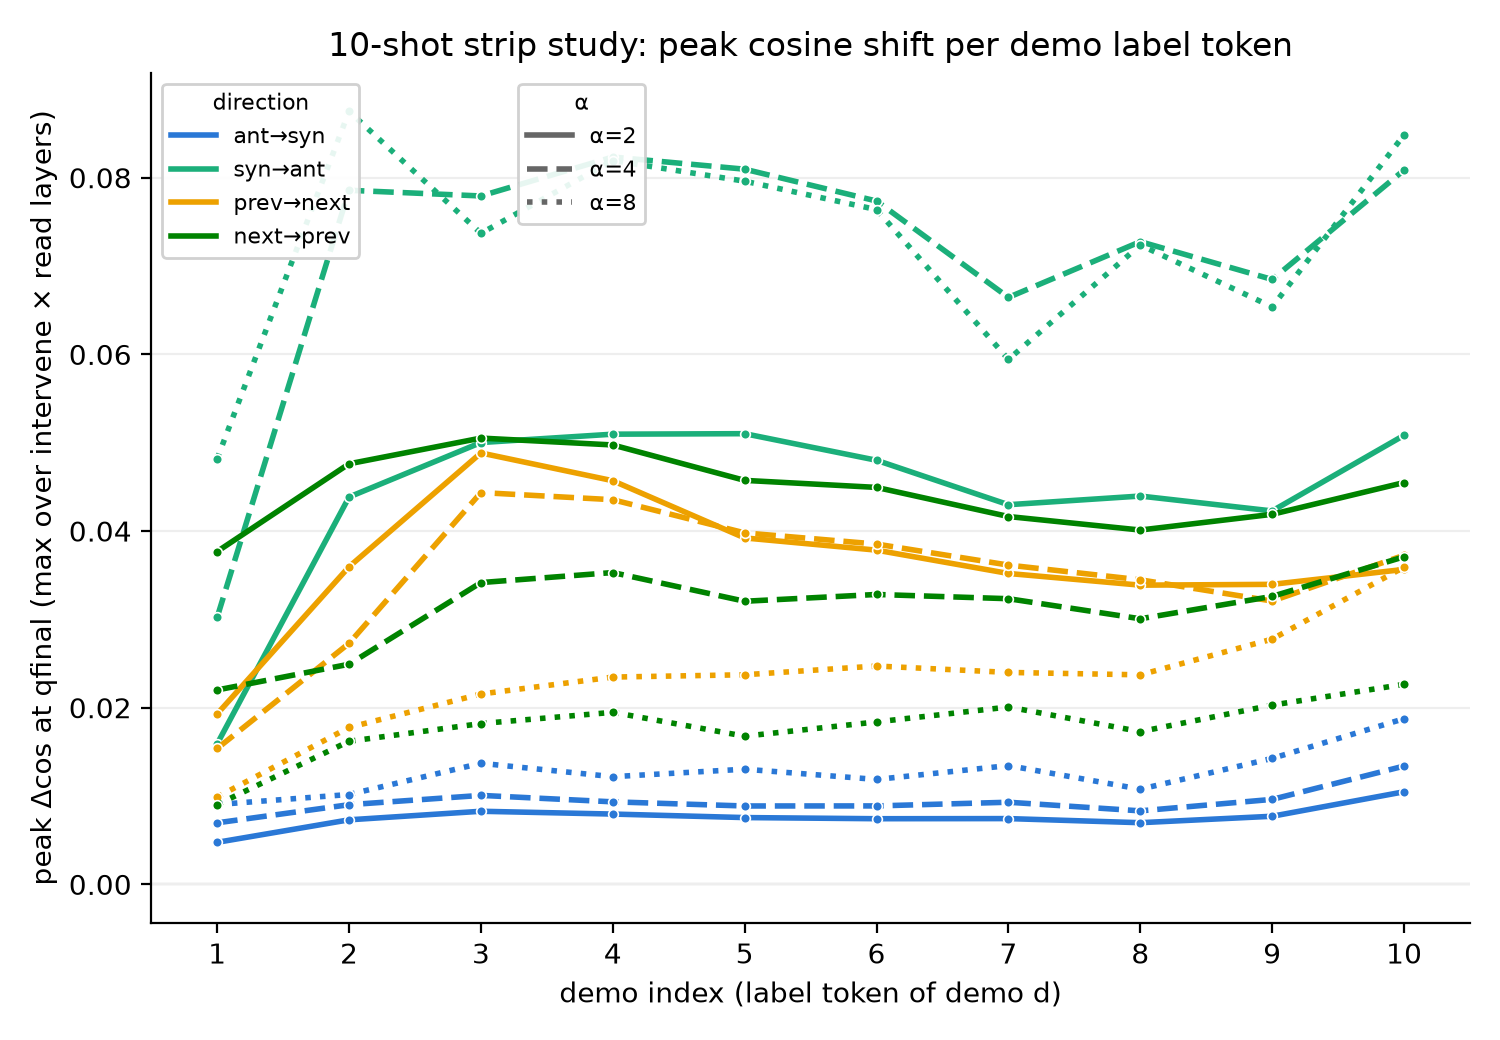
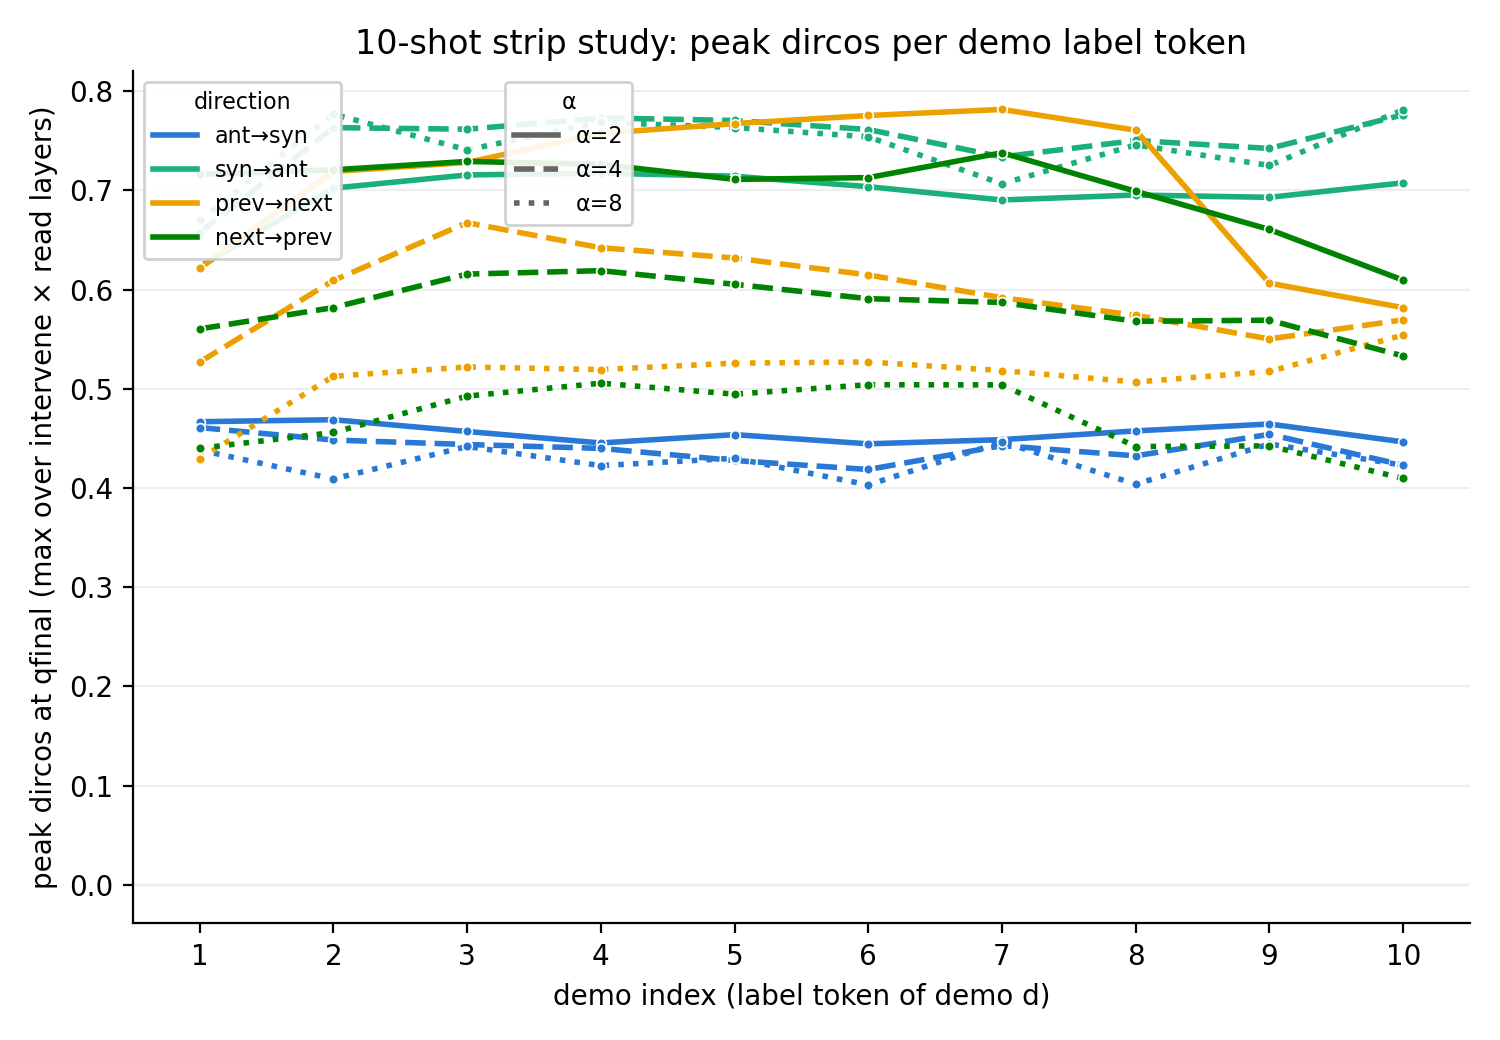
Stream S: regenerate stale scalar_lines_labels_only in dircos; fix leftover delta-cos label
The --labels_only variant of plot_tenshot_strip_lines.py was not re-run after the metric
migration (only the default scalar_lines.png was); also the top_k>1 y-axis label and the
docstring's delta-cos-era 'in/pre ~ 0' claim were still un-renamed. Verified no other
pre-dircos figure remains in the four cos result dirs.

diff --git a/src/eval_scripts/plot_tenshot_strip_lines.py b/src/eval_scripts/plot_tenshot_strip_lines.py
@@ -7,8 +7,9 @@ chart: x = the 30 intervene tokens in sequence order (d1_in, d1_pre, d1_lab, …
 y = peak Δcos, one line per (task-direction, α) — 12 lines. Hue encodes the task-direction
 combo, line style encodes α, so the four combos stay comparable across α.
 
---labels_only restricts x to the 10 demo label tokens (the in/pre slots are ≈0 everywhere,
-see WORKLOG Stream Q) → figures/scalar_lines_labels_only.png.
+--labels_only restricts x to the 10 demo label tokens (labels dominate; NOTE the old Δcos-era
+"in/pre ≈ 0" claim does not hold under dircos — in/pre peaks reach ~0.2-0.4, see DECISIONS
+2026-07-14 metric change) → figures/scalar_lines_labels_only.png.
 
 Output: figures/scalar_lines.png / figures/scalar_lines_labels_only.png.
 """
@@ -99,7 +100,7 @@ def main():
         ax.set_title(f"10-shot strip study: {stat} dircos per intervene token")
     ax.set_xlim(-0.5, len(ikeys) - 0.5)
     red_lab = ("peak dircos at qfinal (max over intervene × read layers)" if args.top_k == 1
-               else f"Δcos at qfinal (mean of top-{args.top_k} intervene × read cells)")
+               else f"dircos at qfinal (mean of top-{args.top_k} intervene × read cells)")
     ax.set_ylabel(red_lab)
     ax.spines[["top", "right"]].set_visible(False)
     ax.grid(axis="y", color="#eeeeee", linewidth=0.8, zorder=0)
